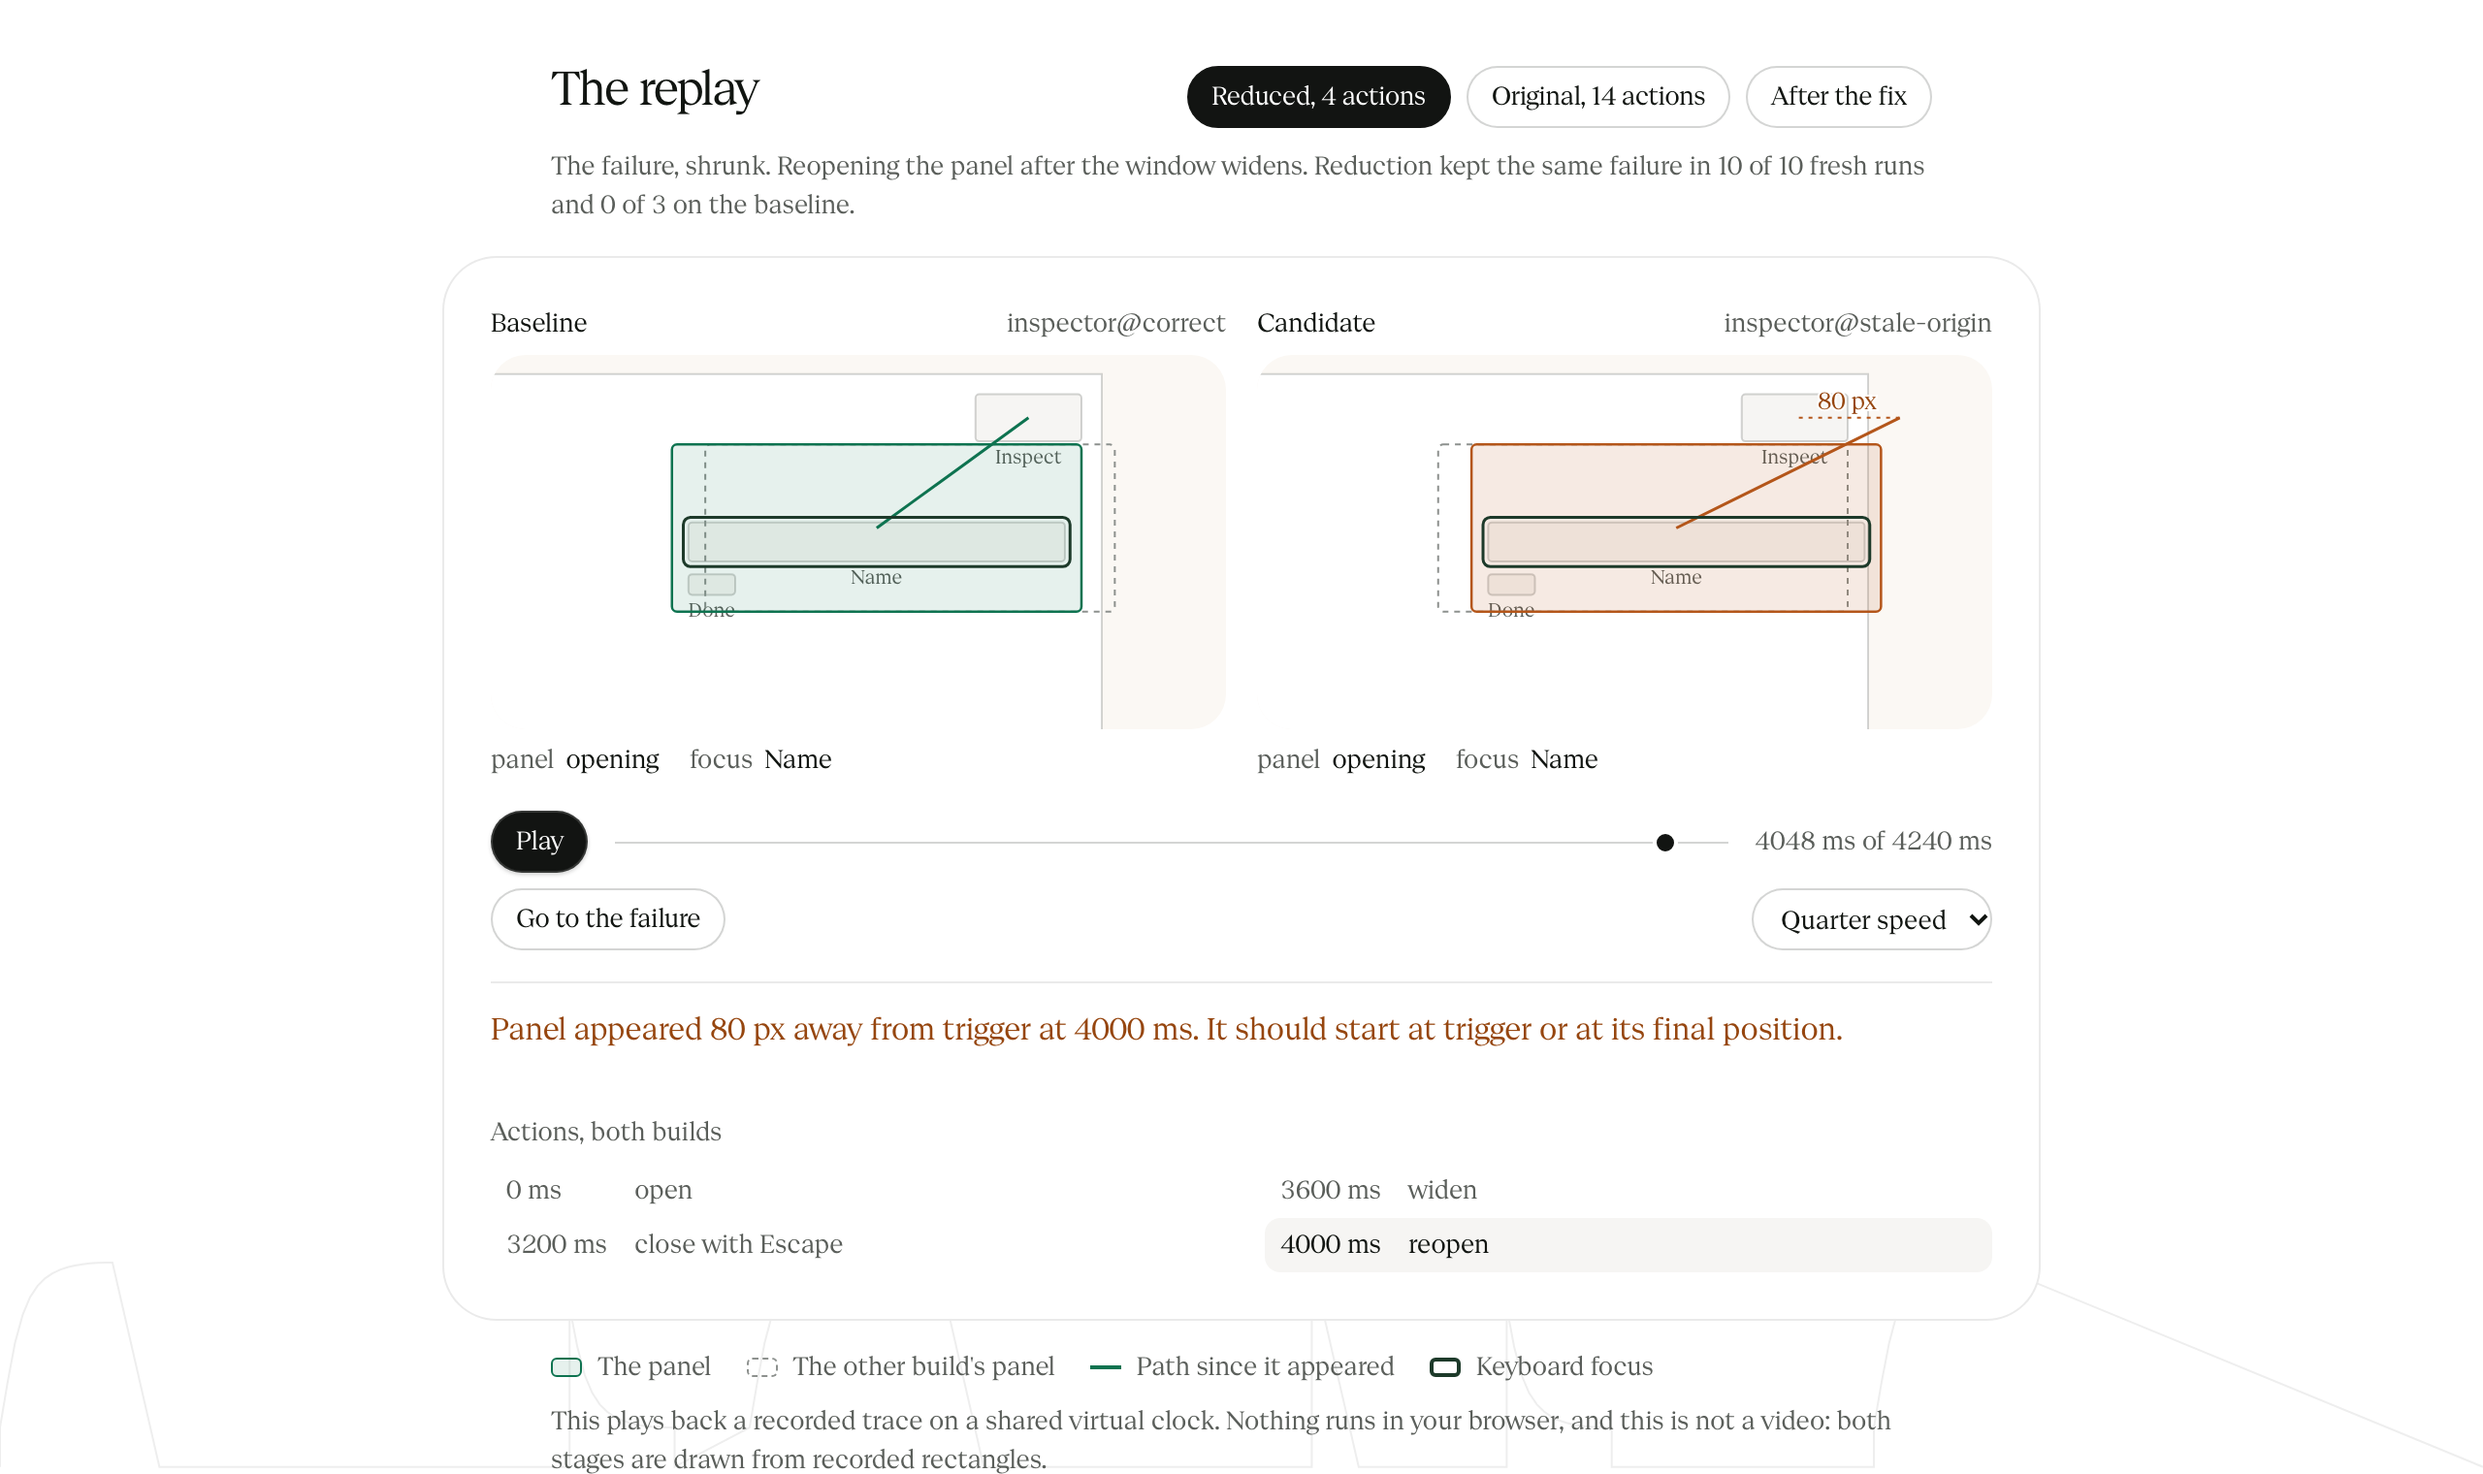
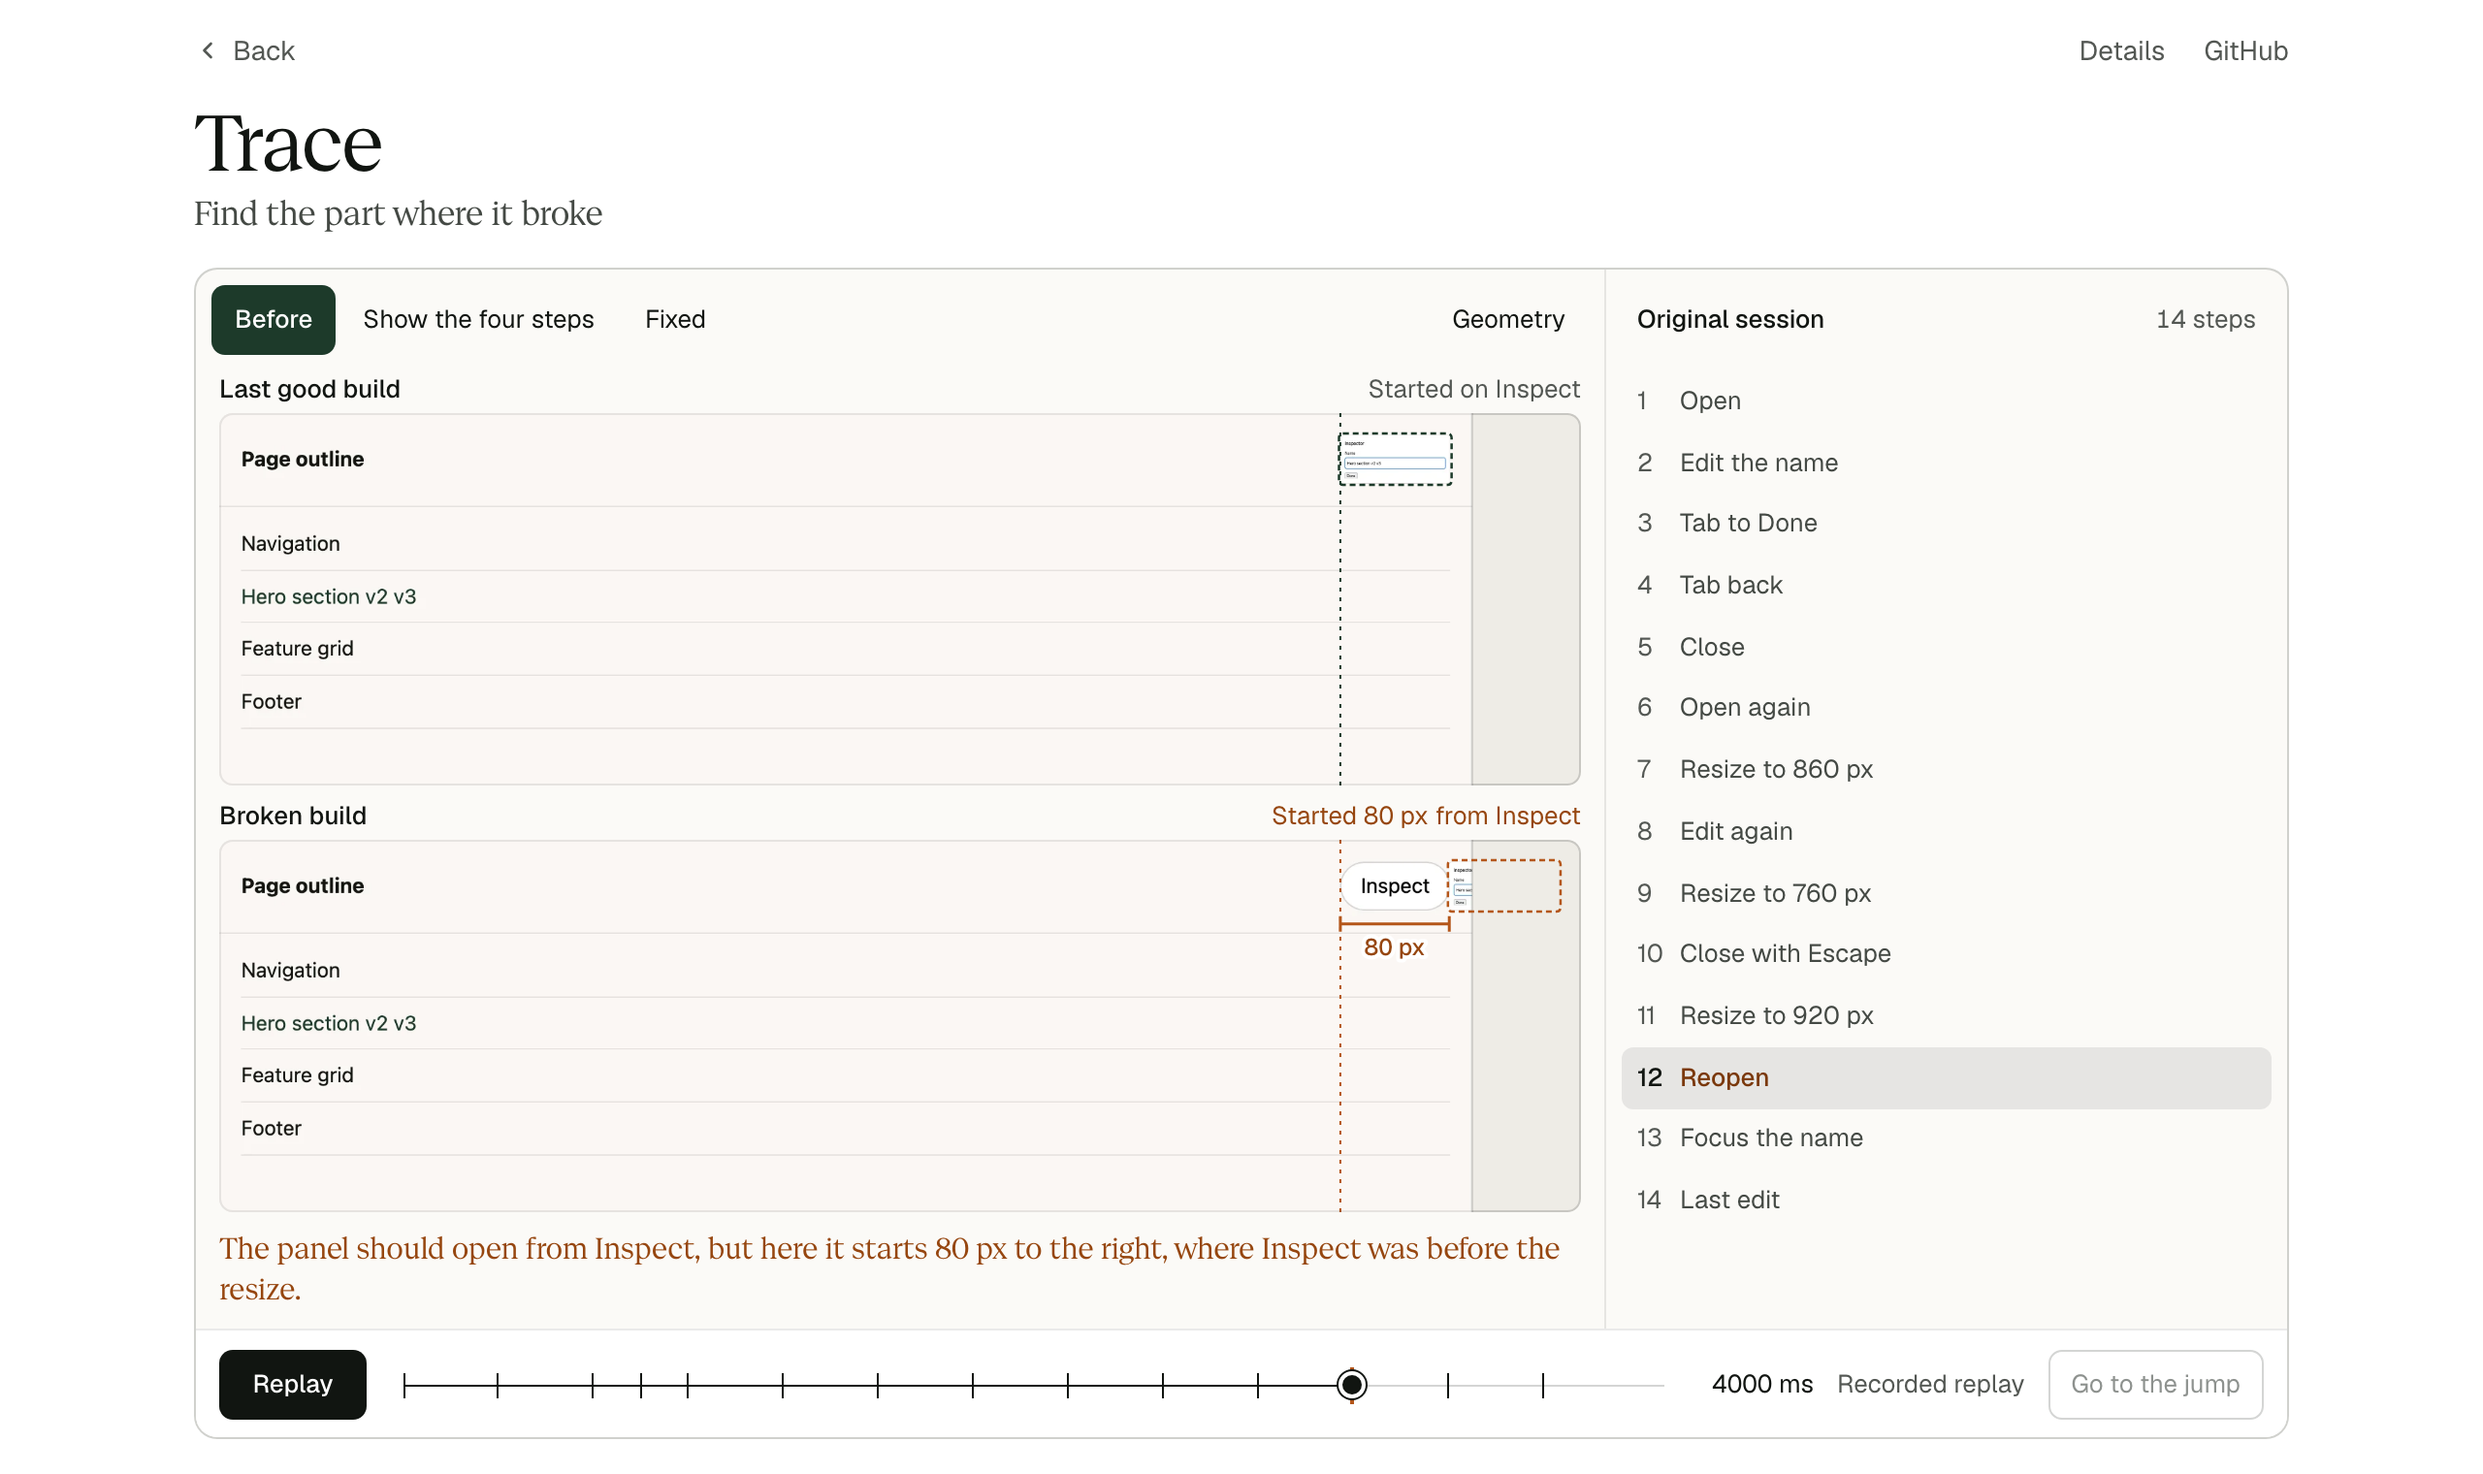
docs: show the rebuilt page on the cover and update the commands table

diff --git a/README.md b/README.md
@@ -7,12 +7,12 @@ A panel can look right in its final screenshot and still have lost focus, accept
 stale transition or jumped during a resize. Trace finds those failures and explains
 each one in a sentence, with two aligned replays that show where the builds part.
 
-![A Trace report. Two stages show the same four actions on two builds. The candidate's panel starts 80 px from its trigger.](docs/assets/cover.png)
+![The Trace project page. Screenshots of two builds show the same moment. The broken build's panel starts 80 px from the Inspect button.](docs/assets/cover.png)
 
 ## See a report
 
-**[Watch the replay](https://www.qendrimbeka.com/projects/trace/index.html)** in your browser. It plays one failure on two builds, and links to the
-full report. No install needed. The same page is in the repository at
+**[Watch the replay](https://www.qendrimbeka.com/projects/trace/index.html)** in your browser. It plays one failure on two builds, shows the reduction to four
+steps, and links to the full report. No install needed. The same page is in the repository at
 [demo/index.html](demo/index.html).
 
 In the full report, `Space` plays, `[` and `]` step by action, `F` jumps to the failure, and
@@ -159,10 +159,10 @@ The full method, raw runs and failures are in [docs/REPORT.md](docs/REPORT.md).
 |---|---|---|
 | `pnpm check` | Type checks everything | Under 1 s |
 | `pnpm test` | 125 unit tests | Under 1 s |
-| `pnpm test:e2e` | 71 real browser tests on all three engines | About 5 minutes |
+| `pnpm test:e2e` | 79 real browser tests on all three engines | About 5 minutes |
 | `pnpm bench:smoke` | One good pair and one seeded failure | About 4 s |
 | `pnpm bench` | The full measurement | 42 minutes |
-| `pnpm demo` | Rebuilds the reports and project page in `demo/` | About 80 s |
+| `pnpm demo` | Rebuilds the reports, the page's screenshots and the project page in `demo/` | About 4 minutes |
 | `pnpm page` | Rebuilds only the project page, from `site/` | Under 1 s |
 | `pnpm verify:artifacts` | Checks saved results against their hashes | Under 1 s |
 
